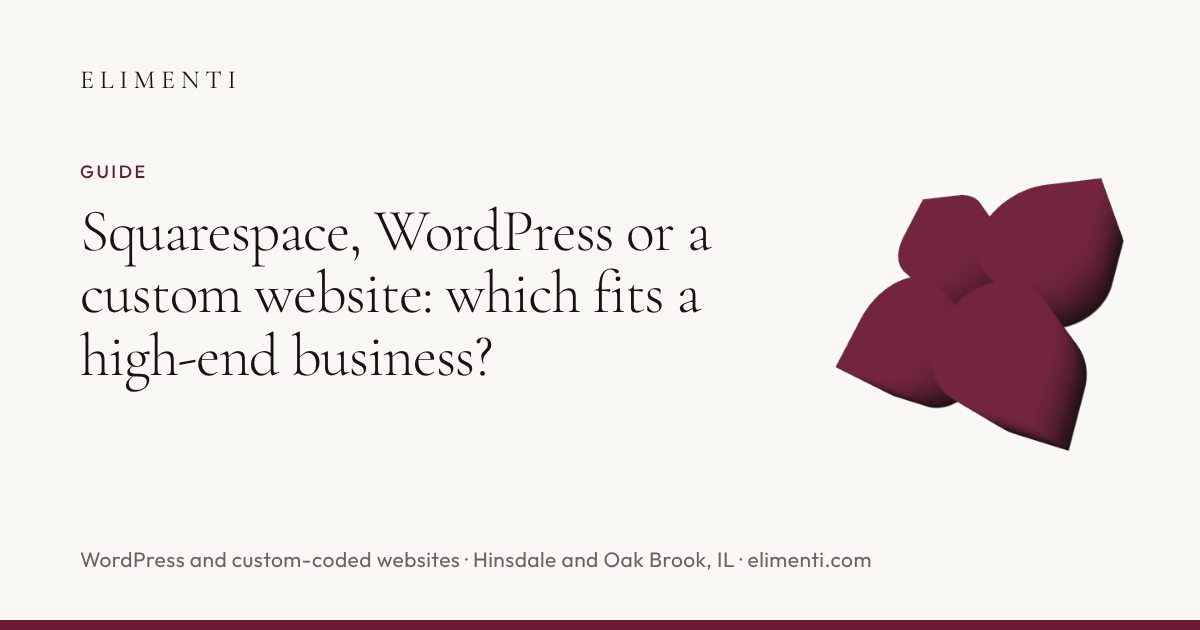
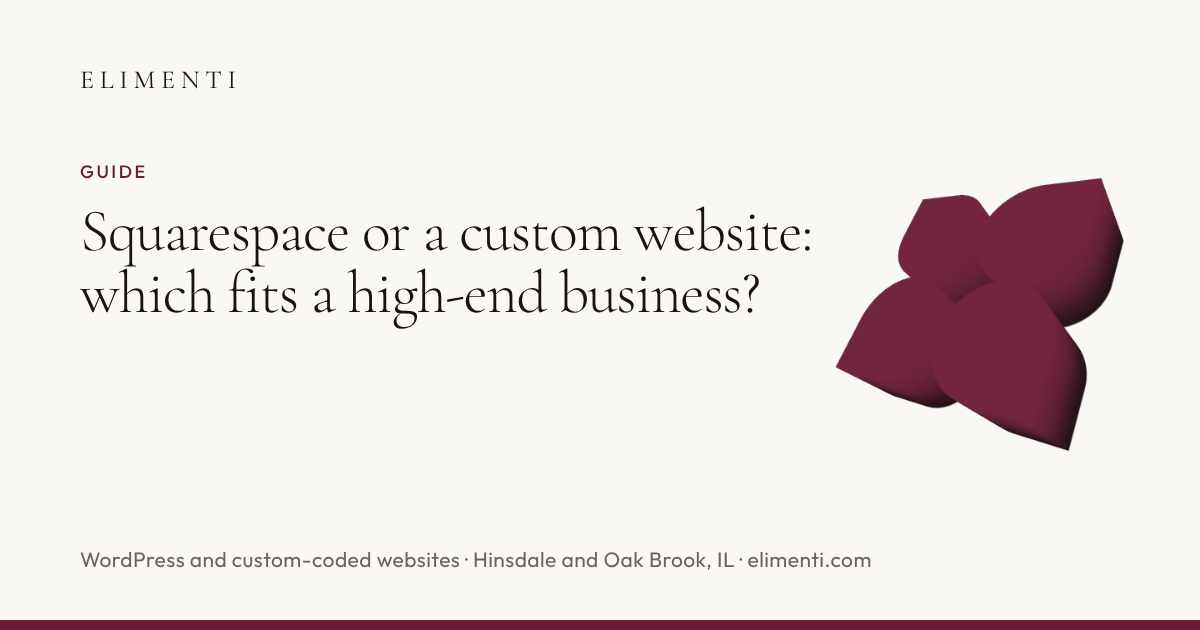
Refocus the Squarespace guide on Squarespace vs custom
Title, H1, description and breadcrumb return to a Squarespace vs custom
focus so the page stops competing with the four-way platform guide.
Internal links to it use Squarespace-vs-custom anchor text; links about
choosing a platform point to the four-way guide instead.

Claude-Session: https://claude.ai/code/session_01LcExrEm2ZCSHQsdxb7wu5M

Changed region(s): [[0.0617, 0.3317, 0.6783, 0.5127], [0.0617, 0.5429, 0.4317, 0.6333]]

diff --git a/guides/squarespace-vs-custom-website/index.html b/guides/squarespace-vs-custom-website/index.html
@@ -3,25 +3,25 @@
 <head>
     <meta charset="UTF-8">
     <meta name="viewport" content="width=device-width, initial-scale=1">
-    <title>Squarespace vs WordPress vs Custom Website | Elimenti</title>
-    <meta name="description" content="An honest comparison for high-end businesses: what Squarespace does well, when WordPress or custom code fits better, three-year costs and how to choose.">
+    <title>Squarespace vs Custom Website: Which Fits? | Elimenti</title>
+    <meta name="description" content="An honest comparison for high-end businesses: what Squarespace does well, where a custom site pulls ahead, three-year costs and how to choose.">
     <link rel="canonical" href="https://elimenti.com/guides/squarespace-vs-custom-website/">
 
     <meta property="og:type" content="article">
     <meta property="og:site_name" content="Elimenti">
     <meta property="og:locale" content="en_US">
     <meta property="og:url" content="https://elimenti.com/guides/squarespace-vs-custom-website/">
-    <meta property="og:title" content="Squarespace vs WordPress vs Custom Website | Elimenti">
-    <meta property="og:description" content="An honest comparison for high-end businesses: what Squarespace does well, when WordPress or custom code fits better, three-year costs and how to choose.">
+    <meta property="og:title" content="Squarespace vs Custom Website: Which Fits? | Elimenti">
+    <meta property="og:description" content="An honest comparison for high-end businesses: what Squarespace does well, where a custom site pulls ahead, three-year costs and how to choose.">
     <meta property="og:image" content="https://elimenti.com/assets/img/og/guides-squarespace-vs-custom-website.png">
     <meta property="og:image:width" content="1200">
     <meta property="og:image:height" content="630">
-    <meta property="og:image:alt" content="Squarespace vs WordPress vs Custom Website. Elimenti, WordPress and custom-coded websites.">
+    <meta property="og:image:alt" content="Squarespace vs Custom Website: Which Fits?. Elimenti, WordPress and custom-coded websites.">
     <meta name="twitter:card" content="summary_large_image">
-    <meta name="twitter:title" content="Squarespace vs WordPress vs Custom Website | Elimenti">
-    <meta name="twitter:description" content="An honest comparison for high-end businesses: what Squarespace does well, when WordPress or custom code fits better, three-year costs and how to choose.">
+    <meta name="twitter:title" content="Squarespace vs Custom Website: Which Fits? | Elimenti">
+    <meta name="twitter:description" content="An honest comparison for high-end businesses: what Squarespace does well, where a custom site pulls ahead, three-year costs and how to choose.">
     <meta name="twitter:image" content="https://elimenti.com/assets/img/og/guides-squarespace-vs-custom-website.png">
-    <meta name="twitter:image:alt" content="Squarespace vs WordPress vs Custom Website. Elimenti, WordPress and custom-coded websites.">
+    <meta name="twitter:image:alt" content="Squarespace vs Custom Website: Which Fits?. Elimenti, WordPress and custom-coded websites.">
 
     <meta name="theme-color" content="#FAF8F5">
     <link rel="icon" type="image/png" sizes="32x32" href="/assets/img/favicon-32.png?v=3">
@@ -176,8 +176,8 @@
         {
           "@type": "Article",
           "@id": "https://elimenti.com/guides/squarespace-vs-custom-website/#article",
-          "headline": "Squarespace, WordPress or a custom-coded website: which one fits a high-end business",
-          "description": "An honest comparison for high-end businesses: what Squarespace does well, when WordPress or custom code fits better, three-year costs and how to choose.",
+          "headline": "Squarespace or a custom website: which one fits a high-end business",
+          "description": "An honest comparison for high-end businesses: what Squarespace does well, where a custom site pulls ahead, three-year costs and how to choose.",
           "url": "https://elimenti.com/guides/squarespace-vs-custom-website/",
           "mainEntityOfPage": "https://elimenti.com/guides/squarespace-vs-custom-website/",
           "image": "https://elimenti.com/assets/img/og/guides-squarespace-vs-custom-website.png",
@@ -191,7 +191,7 @@
             "@id": "https://elimenti.com/#business"
           },
           "datePublished": "2026-11-04",
-          "dateModified": "2026-11-04",
+          "dateModified": "2026-11-05",
           "inLanguage": "en-US",
           "isPartOf": {
             "@id": "https://elimenti.com/#website"
@@ -215,7 +215,7 @@
             {
               "@type": "ListItem",
               "position": 3,
-              "name": "Squarespace, WordPress or custom",
+              "name": "Squarespace vs custom",
               "item": "https://elimenti.com/guides/squarespace-vs-custom-website/"
             }
           ]
@@ -249,8 +249,8 @@
 
     <main id="main">
         <section class="page-hero">
-            <h1>Squarespace, WordPress or a custom website: which fits a high-end business?</h1>
-            <p class="lede">Squarespace is cheapest: its Core and Plus plans come to about $1,044 to $1,764 over three years, plus your time. A designed WordPress or custom-coded site costs more up front, from $4,000 with us. Choose Squarespace to build it yourself, WordPress if you&#x27;ll edit often and want a site you own, and custom-coded if the site rarely changes and must feel as sharp as possible.</p>
+            <h1>Squarespace or a custom website: which fits a high-end business?</h1>
+            <p class="lede">Squarespace is cheaper: its Core and Plus plans come to about $1,044 to $1,764 over three years, plus your time. A custom website, designed for your business and built on WordPress or custom-coded, costs more up front, from $4,000 with us. Choose Squarespace if you&#x27;ll build it yourself on a small budget; choose a custom site if it has to prove quality.</p>
             <p class="legal-date"><strong>By Hashim H., founder of Elimenti.</strong> Published November 4, 2026.</p>
         </section>
 
@@ -258,7 +258,8 @@
             <section>
                 <h2>The short answer</h2>
                 <p>Choose Squarespace if you&#x27;re just starting out, you want to build the site yourself, or you need a store and a site on one bill. Choose WordPress if you or your staff will update the site often, and you want it designed around your business and able to move to any host. Choose a custom-coded site if it rarely changes, it needs to feel as sharp as possible on a phone, and you&#x27;re happy to hand every change to someone else.</p>
-                <p>A note on bias: we build on WordPress and in custom code, so we have a stake in two of the three answers. We&#x27;ve tried to give Squarespace its due, and if it&#x27;s the better fit for you, we&#x27;ll say so on the first call.</p>
+                <p>A note on bias: we build custom sites, on WordPress and in custom code, so we have a stake in this answer. We&#x27;ve tried to give Squarespace its due, and if it&#x27;s the better fit for you, we&#x27;ll say so on the first call.</p>
+                <p>Weighing Wix as well? <a class="text-link" href="/guides/wix-squarespace-wordpress-or-custom/">Wix, Squarespace, WordPress or custom</a> compares all four.</p>
             </section>
 
             <section>
@@ -339,7 +340,7 @@
             </section>
 
             <section>
-                <h2>If WordPress or custom is the fit</h2>
+                <h2>If a custom site is the fit</h2>
                 <p>Elimenti designs websites for high-end independent businesses, built on WordPress or custom-coded, with copy, basic SEO and three revision rounds included. <a class="text-link" href="/wordpress-websites/">About WordPress websites →</a> <a class="text-link" href="/custom-websites/">Compare the two builds →</a> For a fuller breakdown of prices, read <a class="text-link" href="/guides/website-cost-western-suburbs/">what a high-end website costs in Chicago</a>.</p>
                 <div class="actions">
                     <a href="/contact/" class="btn btn--primary">Start a project</a>
@@ -361,7 +362,7 @@
         <ol>
             <li><a href="/">Home</a></li>
             <li><a href="/guides/">Guides</a></li>
-            <li><span aria-current="page">Squarespace, WordPress or custom</span></li>
+            <li><span aria-current="page">Squarespace vs custom</span></li>
         </ol>
     </nav>
 

diff --git a/guides/website-cost-western-suburbs/index.html b/guides/website-cost-western-suburbs/index.html
@@ -368,7 +368,7 @@
                     <dt>Not offered</dt>
                     <dd>Online stores.</dd>
                 </dl>
-                <p>We&#x27;ve also written about what specific industries need from a site: <a class="text-link" href="/med-spa-websites/">med spas</a>, <a class="text-link" href="/interior-designer-websites/">interior designers</a>, <a class="text-link" href="/custom-home-builder-websites/">custom home builders</a>, <a class="text-link" href="/landscape-design-websites/">landscape design firms</a>, <a class="text-link" href="/boutique-websites/">boutiques</a>, <a class="text-link" href="/car-club-websites/">private car clubs</a> and <a class="text-link" href="/classic-car-club-websites/">classic and marque car clubs</a>. If you&#x27;re choosing between a builder, WordPress and custom code, read <a class="text-link" href="/guides/squarespace-vs-custom-website/">Squarespace, WordPress or custom</a>. Our own prices and process are on the <a class="text-link" href="/pricing/">pricing page</a>, and more questions are answered in the <a class="text-link" href="/faq/">FAQ</a>. For a worked example of the numbers, see <a class="text-link" href="/guides/med-spa-website-cost/">what a med spa website costs</a>.</p>
+                <p>We&#x27;ve also written about what specific industries need from a site: <a class="text-link" href="/med-spa-websites/">med spas</a>, <a class="text-link" href="/interior-designer-websites/">interior designers</a>, <a class="text-link" href="/custom-home-builder-websites/">custom home builders</a>, <a class="text-link" href="/landscape-design-websites/">landscape design firms</a>, <a class="text-link" href="/boutique-websites/">boutiques</a>, <a class="text-link" href="/car-club-websites/">private car clubs</a> and <a class="text-link" href="/classic-car-club-websites/">classic and marque car clubs</a>. If you&#x27;re choosing between a builder and a custom site, read <a class="text-link" href="/guides/squarespace-vs-custom-website/">Squarespace or a custom website</a>. Our own prices and process are on the <a class="text-link" href="/pricing/">pricing page</a>, and more questions are answered in the <a class="text-link" href="/faq/">FAQ</a>. For a worked example of the numbers, see <a class="text-link" href="/guides/med-spa-website-cost/">what a med spa website costs</a>.</p>
                 <div class="actions">
                     <a href="/contact/" class="btn btn--primary">Start a project</a>
                     <span class="actions__alt">Or <a href="tel:+16305098822">(630) 509-8822</a></span>

diff --git a/guides/wix-squarespace-wordpress-or-custom/index.html b/guides/wix-squarespace-wordpress-or-custom/index.html
@@ -319,7 +319,7 @@
             <section>
                 <h2>When each one is the right answer</h2>
                 <ul>
-                    <li><strong>Squarespace</strong>, if you want to change the site yourself every week, you&#x27;re comfortable inside a template&#x27;s structure and speed isn&#x27;t your edge. Our deeper comparison: <a class="text-link" href="/guides/squarespace-vs-custom-website/">Squarespace, WordPress or custom</a>.</li>
+                    <li><strong>Squarespace</strong>, if you want to change the site yourself every week, you&#x27;re comfortable inside a template&#x27;s structure and speed isn&#x27;t your edge. Our deeper comparison: <a class="text-link" href="/guides/squarespace-vs-custom-website/">Squarespace or a custom website</a>.</li>
                     <li><strong>Wix</strong>, if you want to start today and build it yourself, and you&#x27;re comfortable that the site can only ever live on Wix.</li>
                     <li><strong>WordPress</strong>, if you or your staff will update the site often, you want plugins for features like memberships or events, and a developer or care plan keeps the core, theme and plugins updated. A designer can build it around your business, and any WordPress developer can take it over. A WordPress site that skips its updates gets harder to keep safe and working.</li>
                     <li><strong>Custom code</strong>, if the site rarely changes, you want it as fast and sharp as possible on a phone and you want to own every file. There&#x27;s nothing to update, and you trade away do-it-yourself editing; changes go through a developer.</li>

diff --git a/guides/what-makes-a-website-look-high-end/index.html b/guides/what-makes-a-website-look-high-end/index.html
@@ -328,7 +328,7 @@
 
             <section>
                 <h2>Where to go from here</h2>
-                <p>Elimenti designs websites for high-end independent businesses in Chicago&#x27;s suburbs and across the US, built on WordPress or custom-coded. <a class="text-link" href="/custom-websites/">About custom websites →</a> If you&#x27;re still deciding on a platform, read <a class="text-link" href="/guides/squarespace-vs-custom-website/">Squarespace, WordPress or custom</a>.</p>
+                <p>Elimenti designs websites for high-end independent businesses in Chicago&#x27;s suburbs and across the US, built on WordPress or custom-coded. <a class="text-link" href="/custom-websites/">About custom websites →</a> If you&#x27;re still deciding on a platform, read <a class="text-link" href="/guides/squarespace-vs-custom-website/">Squarespace or a custom website</a>.</p>
                 <div class="actions">
                     <a href="/contact/" class="btn btn--primary">Start a project</a>
                     <span class="actions__alt">Or <a href="tel:+16305098822">(630) 509-8822</a></span>

diff --git a/custom-websites/index.html b/custom-websites/index.html
@@ -334,7 +334,7 @@
                     <dt>Choose custom-coded if</dt>
                     <dd>The site rarely changes and needs to feel as sharp as possible.</dd>
                 </dl>
-                <p>On WordPress, we decide per project whether to use a page builder like Elementor. We already work in one: we maintain <a class="text-link" href="/work/abn-construction-group/">ABN Construction Group&#x27;s</a> WordPress site, built with Elementor, and add new sections to it. <a class="text-link" href="/guides/squarespace-vs-custom-website/">Squarespace, WordPress or custom? Read the comparison →</a></p>
+                <p>On WordPress, we decide per project whether to use a page builder like Elementor. We already work in one: we maintain <a class="text-link" href="/work/abn-construction-group/">ABN Construction Group&#x27;s</a> WordPress site, built with Elementor, and add new sections to it. <a class="text-link" href="/guides/squarespace-vs-custom-website/">Squarespace or custom? Read the comparison →</a></p>
             </section>
 
             <section>

diff --git a/guides/index.html b/guides/index.html
@@ -317,8 +317,8 @@
                     <article class="work-card">
                         <div class="work-card__body">
                             <span class="work-card__scope">Platforms</span>
-                            <h3><a class="work-card__link" href="/guides/squarespace-vs-custom-website/">Squarespace, WordPress or a custom website</a></h3>
-                            <p>What Squarespace does well, when WordPress or custom code fits better and what each costs over three years.</p>
+                            <h3><a class="work-card__link" href="/guides/squarespace-vs-custom-website/">Squarespace or a custom website</a></h3>
+                            <p>What Squarespace does well, where a custom site pulls ahead, on WordPress or in code, and what each costs over three years.</p>
                         </div>
                     </article>
                 </div>
